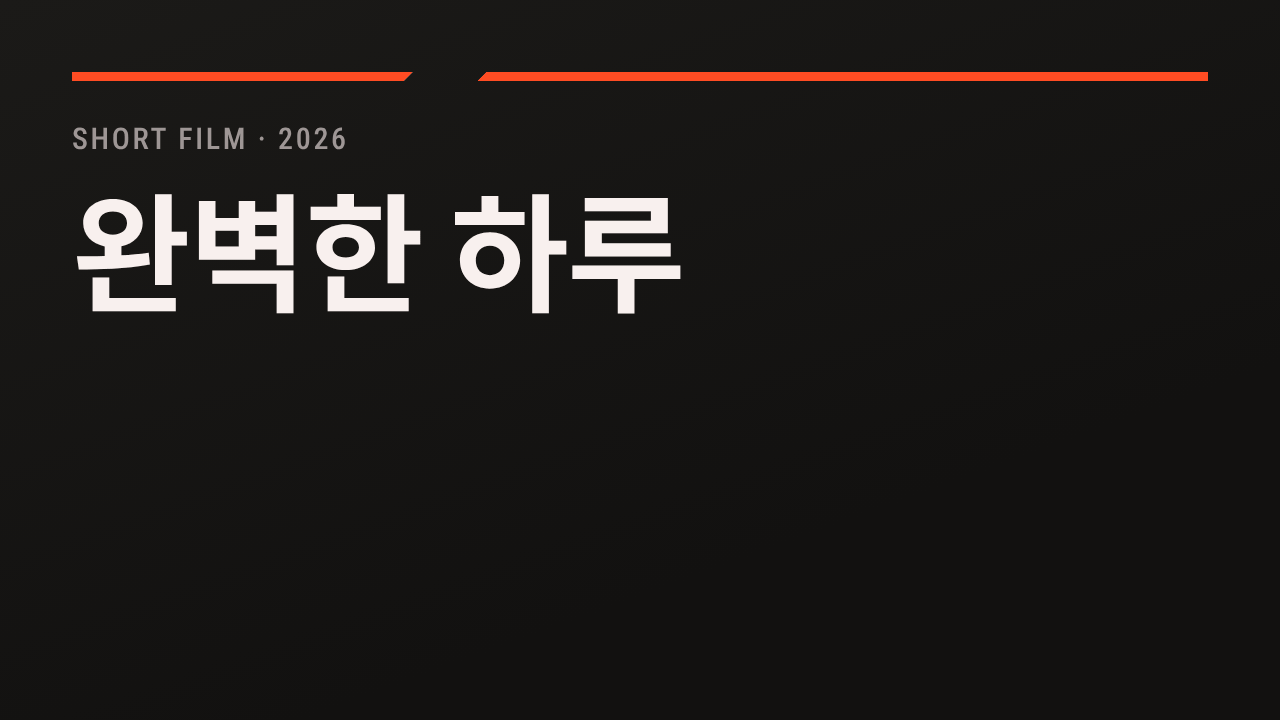
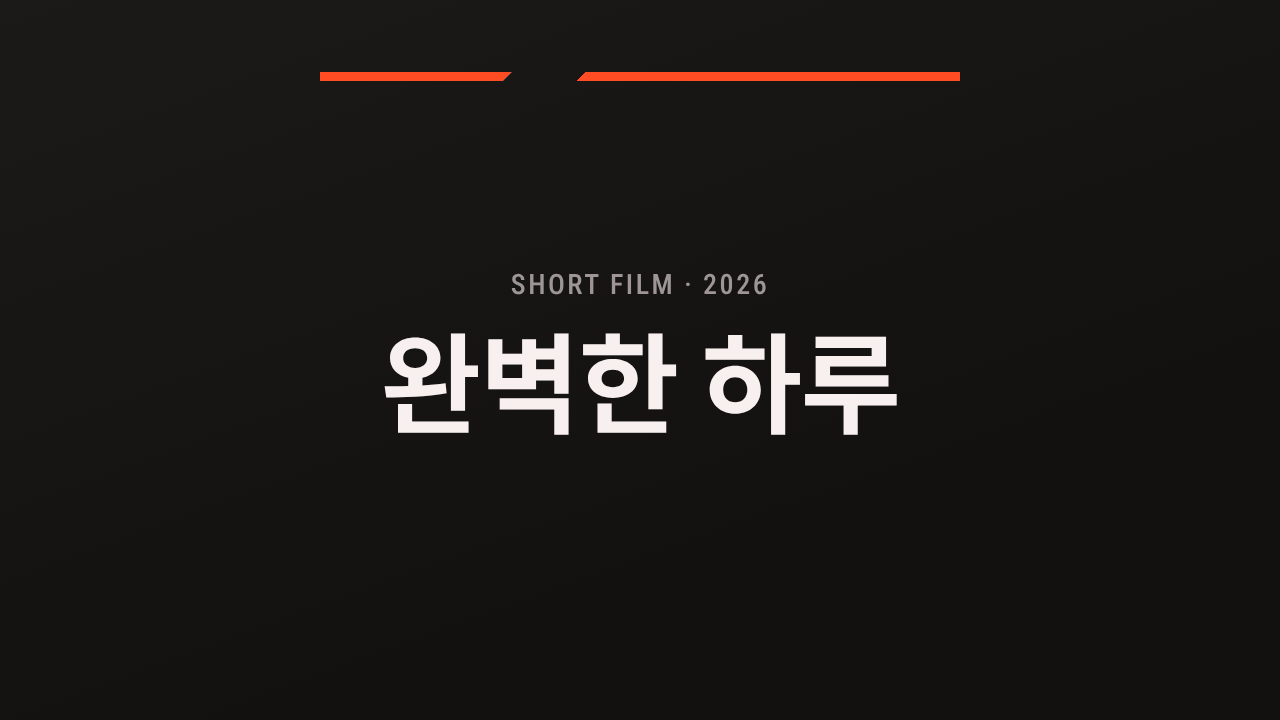
Center the wide home tiles so cropped cells keep the title
Claude-Session: https://claude.ai/code/session_01AoFv4yU6eaPRzaEpeAU87e

diff --git a/build/tiles.py b/build/tiles.py
@@ -20,6 +20,12 @@ html,body{{height:100%;background:#151413}}
 .rule::after{{flex:1;margin-left:calc(var(--p)*.9);clip-path:polygon(var(--r) 0,100% 0,100% 100%,0 100%)}}
 .meta{{margin-top:calc(var(--p)*.55);font-weight:500;font-size:var(--m);letter-spacing:.09em;text-transform:uppercase;color:#9E9695}}
 h1{{margin-top:calc(var(--p)*.35);font-family:RC,Min,sans-serif;font-weight:700;font-size:var(--h);line-height:1.16;letter-spacing:-.015em;word-break:keep-all;text-wrap:balance;max-width:92%}}
+.land{{align-items:center;justify-content:center;text-align:center}}
+.land>*{{width:50%}}
+.land .rule{{position:absolute;top:var(--p);left:25%}}
+.land h1{{max-width:none;margin-top:calc(var(--p)*.3)}}
+.land .meta{{margin-top:0}}
+.t{{position:relative}}
 .foot{{margin-top:auto;display:flex;justify-content:space-between;font-weight:500;font-size:calc(var(--m)*.86);letter-spacing:.09em;text-transform:uppercase;color:#6F6867}}
 """
 def size(title, big, mid, small):
@@ -28,10 +34,10 @@ def size(title, big, mid, small):
 def page(title, cat, year, room, w, h, kind):
     if kind == "work":   p, r, m, hh = 44, 6, 21, size(title, 82, 66, 54)
     elif kind == "port": p, r, m, hh = 64, 9, 31, size(title, 124, 100, 82)
-    else:                p, r, m, hh = 72, 9, 30, size(title, 132, 108, 90)
+    else:                p, r, m, hh = 72, 9, 28, size(title, 112, 92, 78)
     foot = f'<div class="foot"><span>{room}</span></div>' if kind == "work" else ""
     return f"""<!doctype html><meta charset=utf-8><style>{CSS}</style>
-<div class=t style="--p:{p}px;--r:{r}px;--m:{m}px;--h:{hh}px"><div class=rule></div>
+<div class="t {kind}" style="--p:{p}px;--r:{r}px;--m:{m}px;--h:{hh}px"><div class=rule></div>
 <div class=meta>{html.escape(cat)} · {html.escape(year)}</div><h1>{html.escape(title)}</h1>{foot}</div>"""
 async def main():
     by = {r[0]: r for r in ART + COLOR}
